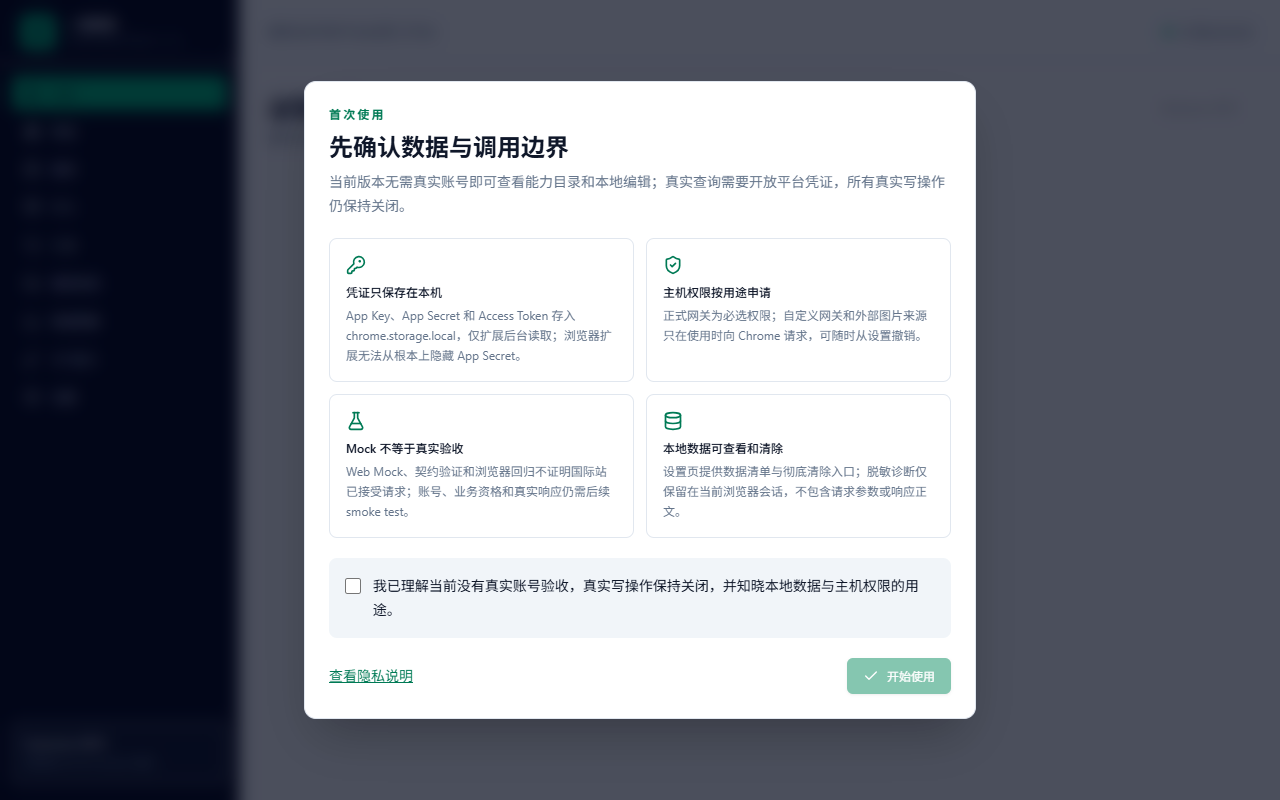
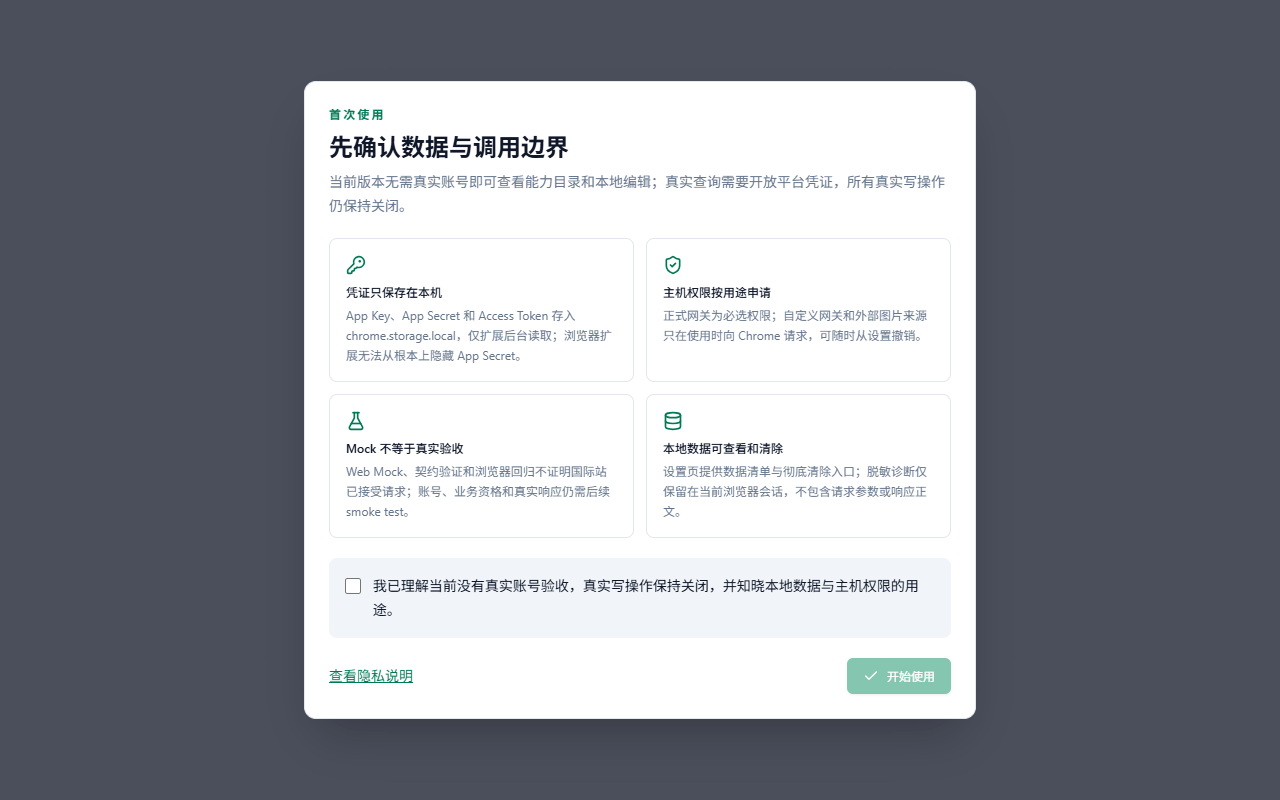
fix-onboarding-block-workspace-until-consent

Changed region(s): [[0.0, 0.0, 0.1875, 1.0], [0.2188, 0.125, 0.25, 0.1562]]

diff --git a/packages/ui/src/OneVegetableApp.vue b/packages/ui/src/OneVegetableApp.vue
@@ -71,6 +71,7 @@ const items: NavigationItem[] = [
 ];
 const page = ref<PageId>('dashboard');
 const sidebarOpen = ref(false);
+const workspaceReady = ref(props.mode !== 'extension' || props.onboarding === undefined);
 const views: Record<PageId, Component> = {
   dashboard: defineAsyncComponent(() => import('./views/DashboardView.vue')),
   products: defineAsyncComponent(() => import('./views/ProductsView.vue')),
@@ -87,66 +88,68 @@ const activeView = computed(() => views[page.value]);
 
 <template>
   <div class="min-h-screen bg-background text-foreground">
-    <OnboardingDialog />
-    <aside
-      class="fixed inset-y-0 left-0 z-40 w-60 border-r bg-slate-950 text-slate-100 transition-transform lg:translate-x-0"
-      :class="sidebarOpen ? 'translate-x-0' : '-translate-x-full'"
-    >
-      <div class="flex h-16 items-center gap-3 border-b border-slate-800 px-5">
-        <span class="flex size-9 items-center justify-center rounded-lg bg-emerald-500 text-slate-950"
-          ><Sprout class="size-5"
-        /></span>
-        <div>
-          <p class="font-semibold">一根青菜</p>
-          <p class="text-[10px] uppercase tracking-[0.18em] text-slate-400">oneVegetable 2.0</p>
-        </div>
-      </div>
-      <nav class="space-y-1 p-3">
-        <button
-          v-for="item in items"
-          :key="item.id"
-          class="flex w-full items-center gap-3 rounded-md px-3 py-2 text-sm transition-colors"
-          :class="
-            page === item.id
-              ? 'bg-emerald-500 text-slate-950'
-              : 'text-slate-300 hover:bg-slate-900 hover:text-white'
-          "
-          @click="
-            page = item.id;
-            sidebarOpen = false;
-          "
-        >
-          <component :is="item.icon" class="size-4" />{{ item.label }}
-        </button>
-      </nav>
-      <div class="absolute inset-x-3 bottom-4 rounded-lg border border-slate-800 bg-slate-900 p-3">
-        <p class="text-xs font-medium">{{ mode === 'mock' ? 'Mock 模式' : 'Extension MV3' }}</p>
-        <p class="mt-1 text-[11px] leading-4 text-slate-400">
-          {{ mode === 'mock' ? '不发送真实 API 请求' : '请求由 service worker 签名' }}
-        </p>
-      </div>
-    </aside>
-    <div class="lg:pl-60">
-      <header
-        class="sticky top-0 z-30 flex h-16 items-center justify-between border-b bg-background/90 px-4 backdrop-blur lg:px-7"
+    <OnboardingDialog @ready="workspaceReady = true" />
+    <template v-if="workspaceReady">
+      <aside
+        class="fixed inset-y-0 left-0 z-40 w-60 border-r bg-slate-950 text-slate-100 transition-transform lg:translate-x-0"
+        :class="sidebarOpen ? 'translate-x-0' : '-translate-x-full'"
       >
-        <Button variant="ghost" size="icon" class="lg:hidden" @click="sidebarOpen = true"
-          ><Menu class="size-5"
-        /></Button>
-        <p class="hidden text-sm text-muted-foreground sm:block">国际站开放平台运营工作台</p>
-        <div class="flex items-center gap-2 text-xs text-muted-foreground">
-          <span class="size-2 rounded-full bg-emerald-500" />{{
-            mode === 'mock' ? '契约 Mock 在线' : '扩展后台在线'
-          }}
+        <div class="flex h-16 items-center gap-3 border-b border-slate-800 px-5">
+          <span class="flex size-9 items-center justify-center rounded-lg bg-emerald-500 text-slate-950"
+            ><Sprout class="size-5"
+          /></span>
+          <div>
+            <p class="font-semibold">一根青菜</p>
+            <p class="text-[10px] uppercase tracking-[0.18em] text-slate-400">oneVegetable 2.0</p>
+          </div>
         </div>
-      </header>
-      <main class="p-4 lg:p-7"><component :is="activeView" /></main>
-    </div>
-    <button
-      v-if="sidebarOpen"
-      class="fixed inset-0 z-30 bg-black/40 lg:hidden"
-      aria-label="关闭导航"
-      @click="sidebarOpen = false"
-    />
+        <nav class="space-y-1 p-3">
+          <button
+            v-for="item in items"
+            :key="item.id"
+            class="flex w-full items-center gap-3 rounded-md px-3 py-2 text-sm transition-colors"
+            :class="
+              page === item.id
+                ? 'bg-emerald-500 text-slate-950'
+                : 'text-slate-300 hover:bg-slate-900 hover:text-white'
+            "
+            @click="
+              page = item.id;
+              sidebarOpen = false;
+            "
+          >
+            <component :is="item.icon" class="size-4" />{{ item.label }}
+          </button>
+        </nav>
+        <div class="absolute inset-x-3 bottom-4 rounded-lg border border-slate-800 bg-slate-900 p-3">
+          <p class="text-xs font-medium">{{ mode === 'mock' ? 'Mock 模式' : 'Extension MV3' }}</p>
+          <p class="mt-1 text-[11px] leading-4 text-slate-400">
+            {{ mode === 'mock' ? '不发送真实 API 请求' : '请求由 service worker 签名' }}
+          </p>
+        </div>
+      </aside>
+      <div class="lg:pl-60">
+        <header
+          class="sticky top-0 z-30 flex h-16 items-center justify-between border-b bg-background/90 px-4 backdrop-blur lg:px-7"
+        >
+          <Button variant="ghost" size="icon" class="lg:hidden" @click="sidebarOpen = true"
+            ><Menu class="size-5"
+          /></Button>
+          <p class="hidden text-sm text-muted-foreground sm:block">国际站开放平台运营工作台</p>
+          <div class="flex items-center gap-2 text-xs text-muted-foreground">
+            <span class="size-2 rounded-full bg-emerald-500" />{{
+              mode === 'mock' ? '契约 Mock 在线' : '扩展后台在线'
+            }}
+          </div>
+        </header>
+        <main class="p-4 lg:p-7"><component :is="activeView" /></main>
+      </div>
+      <button
+        v-if="sidebarOpen"
+        class="fixed inset-0 z-30 bg-black/40 lg:hidden"
+        aria-label="关闭导航"
+        @click="sidebarOpen = false"
+      />
+    </template>
   </div>
 </template>

diff --git a/packages/ui/src/components/OnboardingDialog.vue b/packages/ui/src/components/OnboardingDialog.vue
@@ -6,6 +6,7 @@ import Button from './ui/Button.vue';
 import Card from './ui/Card.vue';
 import { useServices } from '../lib/services';
 
+const emit = defineEmits<{ ready: [] }>();
 const { onboarding, mode } = useServices();
 const visible = ref(false);
 const acknowledged = ref(false);
@@ -14,9 +15,13 @@ const error = ref('');
 const available = computed(() => mode === 'extension' && onboarding !== undefined);
 
 onMounted(async () => {
-  if (!available.value || !onboarding) return;
+  if (!available.value || !onboarding) {
+    emit('ready');
+    return;
+  }
   try {
     visible.value = (await onboarding.load()).completedAt === null;
+    if (!visible.value) emit('ready');
   } catch (reason: unknown) {
     visible.value = true;
     error.value = reason instanceof Error ? reason.message : '首次使用状态读取失败';
@@ -30,6 +35,7 @@ async function finish(): Promise<void> {
   try {
     await onboarding.complete();
     visible.value = false;
+    emit('ready');
   } catch (reason: unknown) {
     error.value = reason instanceof Error ? reason.message : '首次使用状态保存失败';
   } finally {

diff --git a/tests/e2e/extension.spec.ts b/tests/e2e/extension.spec.ts
@@ -39,6 +39,19 @@ test('MV3 options page persists settings and exposes the audited catalog', async
   await expect(page.getByRole('heading', { name: '先确认数据与调用边界' })).toBeVisible();
   await expect(page.getByRole('button', { name: '开始使用' })).toBeDisabled();
   await expect(page.getByRole('link', { name: '查看隐私说明' })).toHaveAttribute('href', '/privacy.html');
+  const diagnosticsBeforeConsent = await page.evaluate(async () => {
+    const extension = (
+      globalThis as unknown as {
+        chrome: { runtime: { sendMessage(value: object): Promise<unknown> } };
+      }
+    ).chrome;
+    return extension.runtime.sendMessage({
+      id: 'diagnostics-before-consent-e2e',
+      kind: 'gateway-request',
+      operation: 'getDiagnostics'
+    });
+  });
+  expect(diagnosticsBeforeConsent).toMatchObject({ ok: true, data: { entries: [] } });
   await page.getByRole('checkbox').check();
   await page.getByRole('button', { name: '开始使用' }).click();
   await expect(page.getByRole('heading', { name: '运营总览' })).toBeVisible();
